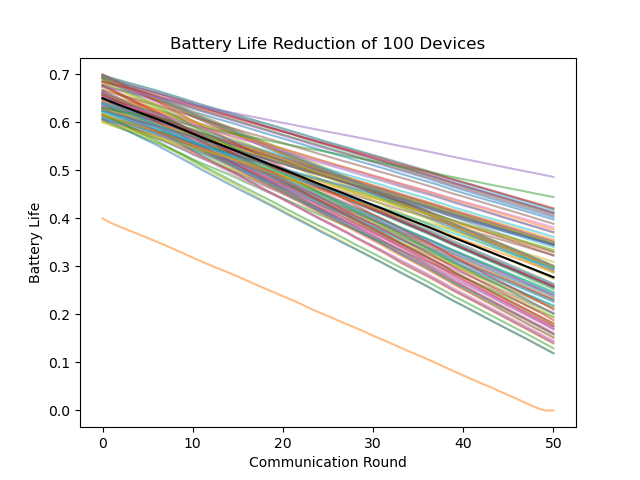
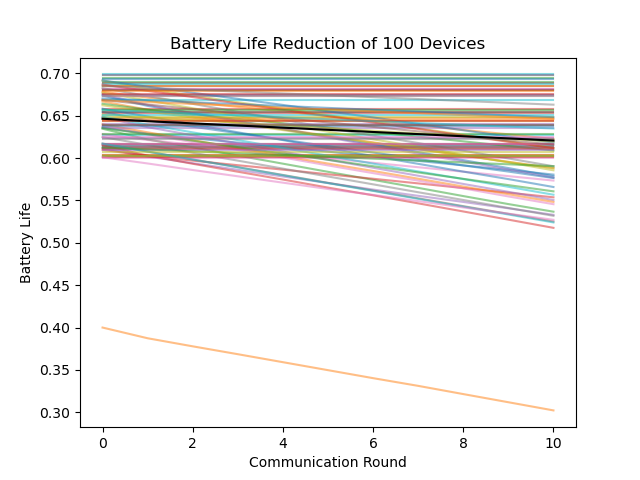
fixed network dropout. Working on AP dropout and rerouting

diff --git a/cloud.py b/cloud.py
@@ -32,7 +32,7 @@ preferred_device = "cuda" if torch.cuda.is_available() else "cpu"
 """
 A bunch of global variables to keep track of new additions to the simulation
 """
-speed_threshold = 5.0
+speed_threshold = 10.0
 train_times = [[] for _ in range(100)]
 batteries = [[] for _ in range(100)]
 speeds = [select_speed() for _ in range(100)]
@@ -351,7 +351,7 @@ class Cloud:
 
             t = list(mobility_data_filt.keys())
             # myrange = range(len(t)), limit the number of timesteps
-            myrange = range(50)
+            myrange = range(10)
 
         else:
             t_idx = 0
@@ -373,7 +373,7 @@ class Cloud:
                 mobility_data_filt = pickle.load(f)
             t = list(mobility_data_filt.keys())
             # myrange = range(len(t)), limit timesteps
-            myrange = range(50)
+            myrange = range(10)
 
         trained_until_now = []
         devices_last_seen = []
@@ -448,8 +448,13 @@ class Cloud:
                 available_devices = []
 
                 for d in mobility_data_filt[t[t_idx]]:
-                    if d["internet_speed"] >= 0:
+                    d["internet_speed"] = select_speed()
+                    if d["internet_speed"] >= speed_threshold:
                         available_devices.append(d)
+                        drop_outs[d["device_idx"]] = False  # Device is active
+                    else:
+                        drop_outs[d["device_idx"]] = True  # Device dropped out
+                        print(f"Device {d['device_idx']} excluded due to low speed: {d['internet_speed']} Mbps")
                 # Skipping communication round - aggregate if necessary
                 if len(available_devices) == 0:
                     print(
@@ -602,7 +607,7 @@ class Cloud:
                         next_available_devices = []
                         next_available_devices_idx = []
                         for d in mobility_data_filt[t[t_idx + 1]]:
-                            if d["internet_speed"] >= 0:
+                            if d["internet_speed"] >= 2:
                                 if d["device_idx"] in available_devices_idx:
                                     next_available_devices.append(d)
                                     next_available_devices_idx.append(d["device_idx"])
